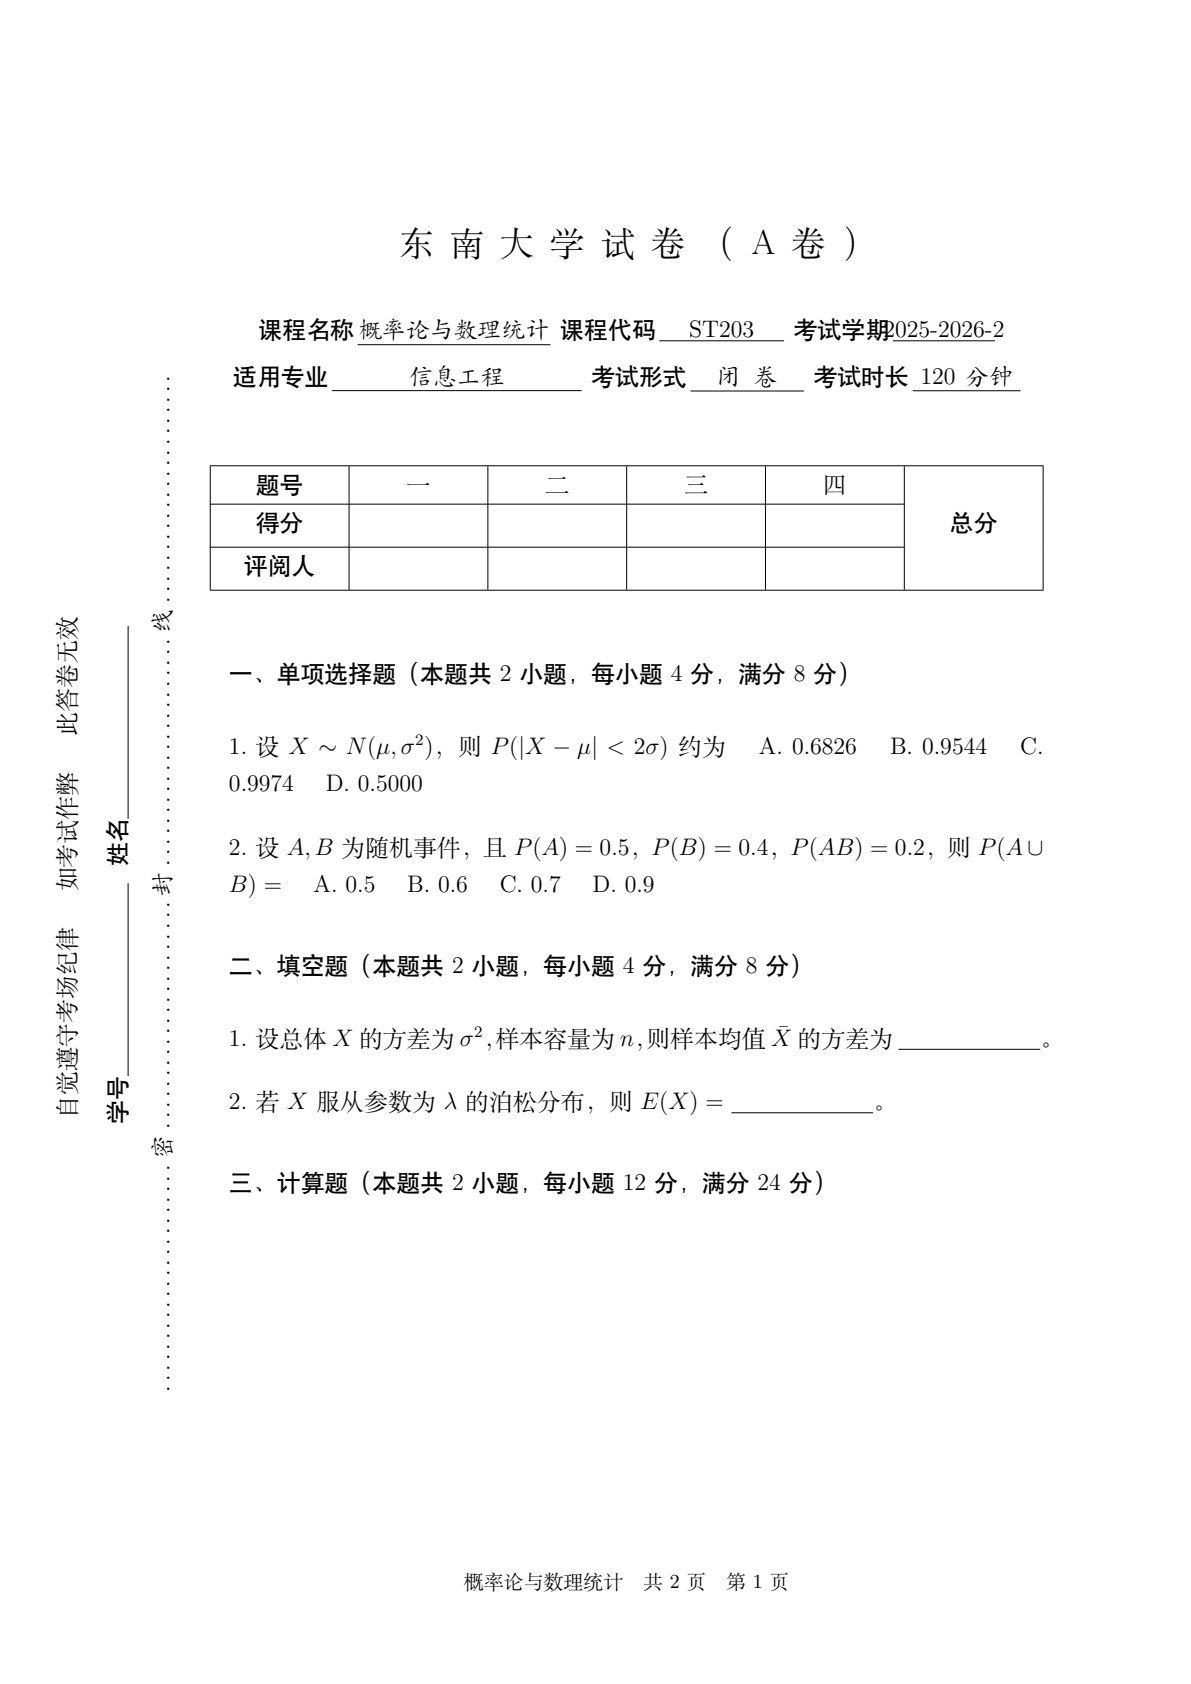
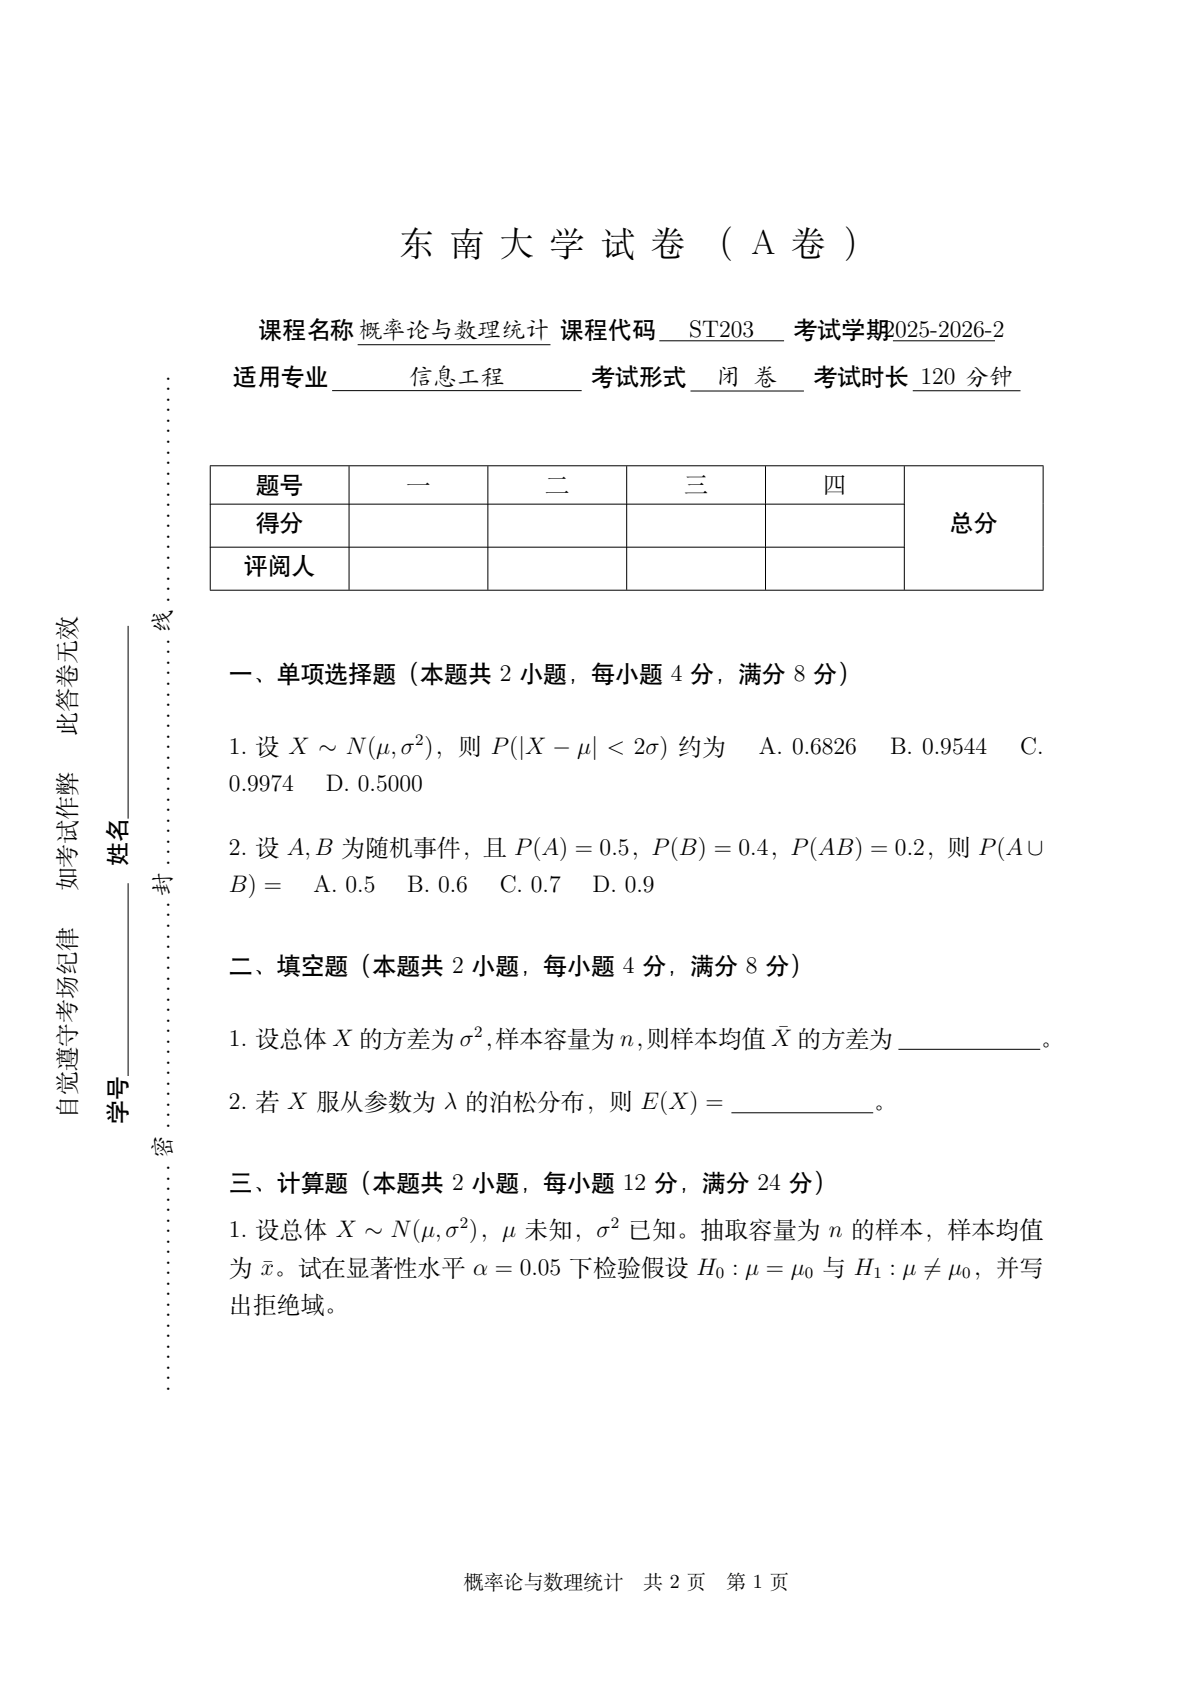
Fix answer-space placement in exam rendering
Reported issue: for each section, blank space appeared ABOVE the first
question, and the last question had no room to write.

Root cause: \begin{examquestions}[7cm] sets \parskip, which only takes
effect BETWEEN paragraphs. Two consequences:
  - the newline/indent at the start of the environment body forms an
    empty paragraph, so the gap lands before the first question
  - after the last question there is no following paragraph, so the gap
    is discarded at the end of the document

Fix: emit an explicit \par\vspace{...} after every question and disable
\parskip via [0pt]. Verified on real Overleaf against the rebuilt PDF
(updated preview PNGs): the section heading now directly precedes the
first question, and every question including the last has answer space.

- scripts/latex/exampaper_adapter.py: render_section rewritten
- scripts/latex/test_adapter.py: +2 regression tests (9 total, all pass)
- references/question-types.md: document the pitfall and the convention
- templates/README.md: warn against using the [..] argument for answer space
- examples/output/*: regenerated tex, PDF and page previews

diff --git a/scripts/latex/test_adapter.py b/scripts/latex/test_adapter.py
@@ -71,6 +71,34 @@ class TestRenderExam(unittest.TestCase):
         self.assertIn("\\examname{概率论}", out)
         self.assertIn("120\\hspace{0.4em}分钟", out)
 
+    def test_answer_space_after_every_question(self):
+        r"""留白必须跟在**每一题之后**（含最后一题），且第一题之前不留白。
+
+        回归测试：早期实现用 `\begin{examquestions}[7cm]`（即 \parskip），
+        结果留白错误地落在第一题之前、且最后一题之后没有留白。
+        """
+        out = render_exam({"questions": [
+            {"type": "calculation", "stem_latex": "题A", "score": 10},
+            {"type": "calculation", "stem_latex": "题B", "score": 10},
+        ]})
+        self.assertIn("\\begin{examquestions}[0pt]", out)
+        self.assertEqual(out.count("\\par\\vspace{7cm}"), 2)
+        self.assertNotIn("[7cm]", out)
+        # 留白必须紧跟在题干之后，而不是在 \examquestion 之前
+        body = out.split("\\begin{examquestions}[0pt]")[1]
+        first_line = body.strip().splitlines()[0]
+        self.assertTrue(first_line.startswith("\\examquestion"),
+                        f"第一行应是题干而非留白：{first_line!r}")
+
+    def test_no_answer_space_for_choice_and_fill(self):
+        """选择题/填空题不需要答题留白，用默认题间距。"""
+        out = render_exam({"questions": [
+            {"type": "choice", "stem_latex": "题", "options": [{"label": "A", "latex": "1"}], "score": 4},
+            {"type": "fill", "stem_latex": "题", "score": 4},
+        ]})
+        self.assertIn("\\begin{examquestions}\n", out)
+        self.assertNotIn("\\par\\vspace", out)
+
 
 if __name__ == "__main__":
     unittest.main(verbosity=2)

diff --git a/scripts/latex/exampaper_adapter.py b/scripts/latex/exampaper_adapter.py
@@ -163,10 +163,23 @@ def render_question(q, type_key):
 
 
 def render_section(type_key, group):
+    """渲染一个大题栏（\\examsection + examquestions）。
+
+    答题留白用「每题后显式 \\par\\vspace{...}」而非环境的 \\parskip 参数。
+    原因（2026-10-09 实测）：\\parskip 只在**段落之间**生效，
+      - 环境体开头的换行/缩进会形成一个空段落，使间距错误地落在第一题之前；
+      - 最后一题之后没有后继段落，间距在文档末尾被丢弃 → 最后一题没有答题空间。
+    故：有留白需求的题型用 [0pt] 关掉 \\parskip，改为每题后显式 \\vspace。
+    """
     space = ANSWER_SPACE.get(type_key)
-    begin = f"\\begin{{examquestions}}[{space}]" if space else "\\begin{examquestions}"
-    body = "\n".join(render_question(q, type_key) for q in group)
-    return f"\\examsection{{{section_title(type_key, group)}}}\n{begin}\n{body}\n\\end{{examquestions}}"
+    lines = [f"\\examsection{{{section_title(type_key, group)}}}"]
+    lines.append("\\begin{examquestions}[0pt]" if space else "\\begin{examquestions}")
+    for q in group:
+        lines.append(render_question(q, type_key))
+        if space:
+            lines.append(f"  \\par\\vspace{{{space}}}")
+    lines.append("\\end{examquestions}")
+    return "\n".join(lines)
 
 
 def group_questions(questions):

diff --git a/examples/output/sample-exam.tex b/examples/output/sample-exam.tex
@@ -39,16 +39,19 @@
 \vspace{0.6em}
 
 \examsection{计算题（本题共 2 小题，每小题 12 分，满分 24 分）}
-\begin{examquestions}[7cm]
+\begin{examquestions}[0pt]
   \examquestion 设总体 $X \sim N(\mu, \sigma^2)$，$\mu$ 未知，$\sigma^2$ 已知。抽取容量为 $n$ 的样本，样本均值为 $\bar{x}$。试在显著性水平 $\alpha=0.05$ 下检验假设 $H_0: \mu = \mu_0$ 与 $H_1: \mu \neq \mu_0$，并写出拒绝域。
+  \par\vspace{7cm}
   \examquestion 设随机变量 $X$ 的概率密度函数为 $f(x) = \begin{cases} \lambda e^{-\lambda x}, & x > 0 \\ 0, & x \leq 0 \end{cases}$，求 $E(X)$ 与 $\mathrm{Var}(X)$。
+  \par\vspace{7cm}
 \end{examquestions}
 
 \vspace{0.6em}
 
 \examsection{简答题（本题共 1 小题，每小题 10 分，满分 10 分）}
-\begin{examquestions}[10cm]
+\begin{examquestions}[0pt]
   \examquestion 叙述中心极限定理（林德伯格-列维形式），并说明它在统计推断中的作用。
+  \par\vspace{10cm}
 \end{examquestions}
 
 \end{document}

diff --git a/references/question-types.md b/references/question-types.md
@@ -9,7 +9,7 @@
 | 选择题 | `choice` | `\examquestion` + 自定义选项 | 4 个选项，1 个正确答案 |
 | 填空题 | `fill` | `\examquestion` + `\underline` | 题干含 `\underline{\hspace{2cm}}` |
 | 计算题 | `calculation` | `\examquestion` | 完整数学表达式 |
-| 简答题 | `short_answer` | `\examquestion` + `\examquestions[7cm]` | 题后留答题空间 |
+| 简答题 | `short_answer` | `\examquestion` + 每题后 `\par\vspace{10cm}` | 题后留答题空间（见下文「答题空间」） |
 | 图像题 | `image_question` | `\examfigure` | 题干含图，图自动编号 |
 | 电路题 | `circuit_question` | `\examfigure` + 占位 | 保留原图占位 |
 
@@ -90,6 +90,31 @@
 
 ## 答题空间
 
-- 选择题、填空题：不需要答题空间
-- 计算题：建议 `\begin{examquestions}[7cm]`
-- 简答题：建议 `\begin{examquestions}[10cm]`
+**不要**用 `\begin{examquestions}[7cm]` 的参数留白。该参数是 `\parskip`（段间距），
+只在段落**之间**生效，会导致两个错误（2026-10-09 实测）：
+
+- 留白落在**第一题之前**（环境体开头的空白形成空段落）
+- **最后一题之后没有留白**（后面没有段落，间距在文档末尾被丢弃）
+
+正确写法是每题之后显式换段再留白：
+
+```latex
+\examsection{计算题（本题共 2 小题，每小题 12 分，满分 24 分）}
+\begin{examquestions}[0pt]
+  \examquestion 题一
+  \par\vspace{7cm}
+  \examquestion 题二
+  \par\vspace{7cm}
+\end{examquestions}
+```
+
+约定：
+
+| 题型 | 每题后留白 |
+|---|---|
+| 选择题、填空题 | 无（用 `\begin{examquestions}` 默认 13pt 题间距） |
+| 计算题 | `\par\vspace{7cm}` |
+| 简答题、证明题 | `\par\vspace{10cm}` / `8cm` |
+| 图/电路题 | `\par\vspace{6cm}` |
+
+`exampaper_adapter.py` 已按此规则生成（见 `ANSWER_SPACE` 常量）。

diff --git a/templates/README.md b/templates/README.md
@@ -46,7 +46,7 @@ cp /tmp/upstream/exampaper.cls templates/exampaper.cls
 |---|---|
 | `\examsection{栏目标题}` | 大题标题，自动加「一、」「二、」并重置小题号 |
 | `\examquestion` | 小题编号（自动 1. 2. 3.…） |
-| `\begin{examquestions}[7cm] … \end{examquestions}` | 小题区，可选参数为**小题间距**（留答题空间） |
+| `\begin{examquestions}[7cm] … \end{examquestions}` | 小题区。参数是 `\parskip`（段间距）。⚠ **不要用它留答题空间**：留白会错落在第一题之前，且最后一题之后不留白。改用每题后 `\par\vspace{...}`，详见 `references/question-types.md` |
 | `\begin{examproblem} … \end{examproblem}` | 无编号的单个大题 |
 | `\examfigure[0.6\textwidth]{图题}{图片路径}` | 插图并自动编号 |
 | `\examfield[宽度]{项目名}{内容}` | 抬头信息栏一项 |
